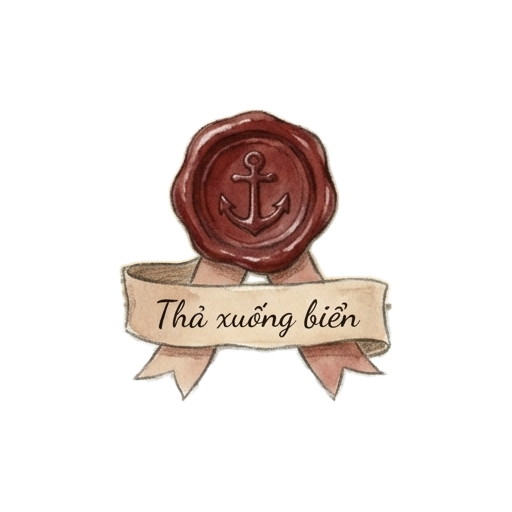
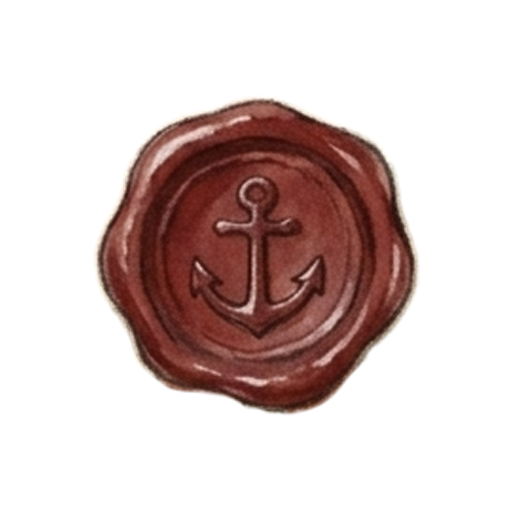
Use write-panel and drop.png asset for read bottle modal

Changed region(s): [[0.1875, 0.1875, 0.8438, 0.8125]]

diff --git a/src/App.jsx b/src/App.jsx
@@ -392,54 +392,119 @@ export default function App() {
 
       {modalMode === "read" && (
         <div
+          onClick={() => !loading && setModalMode(null)}
           style={{
             position: "fixed",
             inset: 0,
-            backgroundColor: "rgba(0, 0, 0, 0.6)",
+            backgroundColor: "rgba(9, 30, 58, 0.45)",
+            backdropFilter: "blur(3px)",
             display: "flex",
             alignItems: "center",
             justifyContent: "center",
-            padding: "16px",
+            padding: "12px",
             zIndex: 30,
           }}
         >
-          <div
-            style={{
-              backgroundColor: "#fffdf7",
-              color: "#1f2937",
-              maxWidth: "420px",
-              width: "100%",
-              maxHeight: "82vh",
-              overflowY: "auto",
-              borderRadius: "16px",
-              padding: "20px",
-              boxShadow: "0 12px 30px rgba(0,0,0,0.35)",
-              boxSizing: "border-box",
-            }}
-          >
-            <h3 style={{ marginTop: 0 }}>
+          <style>{`
+            .read-sheet {
+              position: relative;
+              color-scheme: light;
+              background-image: url(${writePanelImg});
+              background-size: 100% 100%;
+              background-repeat: no-repeat;
+              background-position: center;
+              background-color: transparent;
+              color: #3b2818;
+              width: 100%;
+              max-width: 520px;
+              min-height: 460px;
+              max-height: 92dvh;
+              overflow-y: auto;
+              padding: 72px 86px 126px 86px;
+              box-sizing: border-box;
+              display: flex;
+              flex-direction: column;
+            }
+            .read-title {
+              margin: 0 0 14px 0;
+              text-align: center;
+              font-size: 16px;
+              color: #0f3460;
+              font-weight: 700;
+              flex-shrink: 0;
+            }
+            .read-body {
+              margin: 0;
+              font-size: 13.5px;
+              line-height: 1.6;
+              color: #2b1d12;
+              white-space: pre-wrap;
+              word-break: break-word;
+            }
+            .read-close-btn {
+              position: absolute;
+              bottom: 26px;
+              right: 34px;
+              padding: 0;
+              border: none;
+              background: transparent;
+              -webkit-appearance: none;
+              appearance: none;
+              cursor: pointer;
+              display: inline-flex;
+              align-items: center;
+              justify-content: center;
+              transition: opacity 0.2s ease, transform 0.15s ease;
+              z-index: 5;
+            }
+            .read-close-btn:hover {
+              transform: scale(1.04);
+            }
+            .read-close-img {
+              width: 142px;
+              height: auto;
+              display: block;
+            }
+            @media (max-width: 600px) {
+              .read-sheet {
+                max-width: 440px;
+                min-height: 440px;
+                padding: 66px 66px 118px 66px;
+              }
+              .read-close-btn {
+                bottom: 24px;
+                right: 28px;
+              }
+              .read-close-img {
+                width: 126px;
+              }
+            }
+          `}</style>
+
+          <div className="read-sheet" onClick={(e) => e.stopPropagation()}>
+            <h3 className="read-title">
               ✉ Thư từ {currentBottle?.nickname || "một người lạ"}
             </h3>
             {loading ? (
-              <p>Đang mở nút bần...</p>
-            ) : (
-              <p style={{ lineHeight: 1.6, whiteSpace: "pre-wrap" }}>
-                {currentBottle?.content}
+              <p className="read-body" style={{ textAlign: "center" }}>
+                Đang mở nút bần...
               </p>
+            ) : (
+              <p className="read-body">{currentBottle?.content}</p>
             )}
+
             <button
               type="button"
               onClick={() => setModalMode(null)}
-              style={{
-                padding: "9px 18px",
-                borderRadius: "8px",
-                border: "none",
-                backgroundColor: "#0284c7",
-                color: "#fff",
-                cursor: "pointer",
-              }}
+              aria-label="Đóng thư"
+              title="Đóng thư"
+              className="read-close-btn"
             >
-              Đóng thư
+              <img
+                src={dropImg}
+                alt="Đóng thư"
+                className="read-close-img"
+              />
             </button>
           </div>
         </div>
